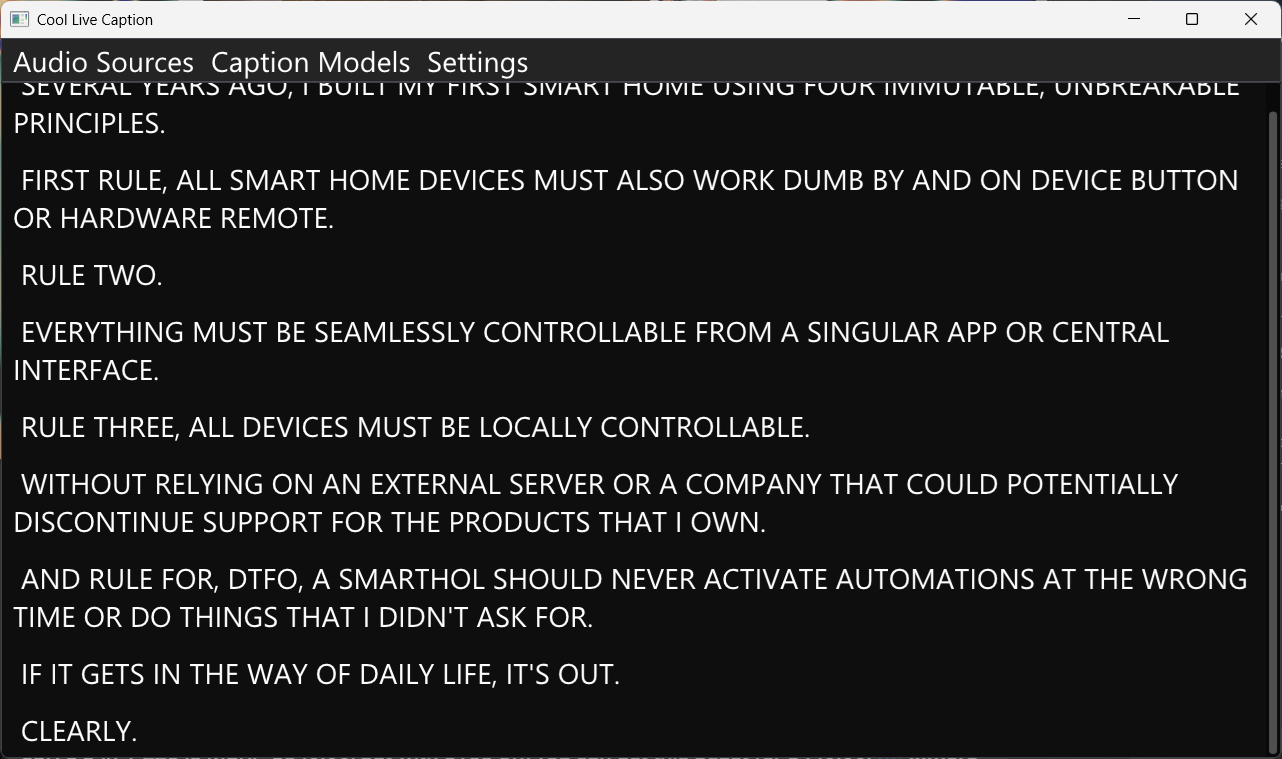
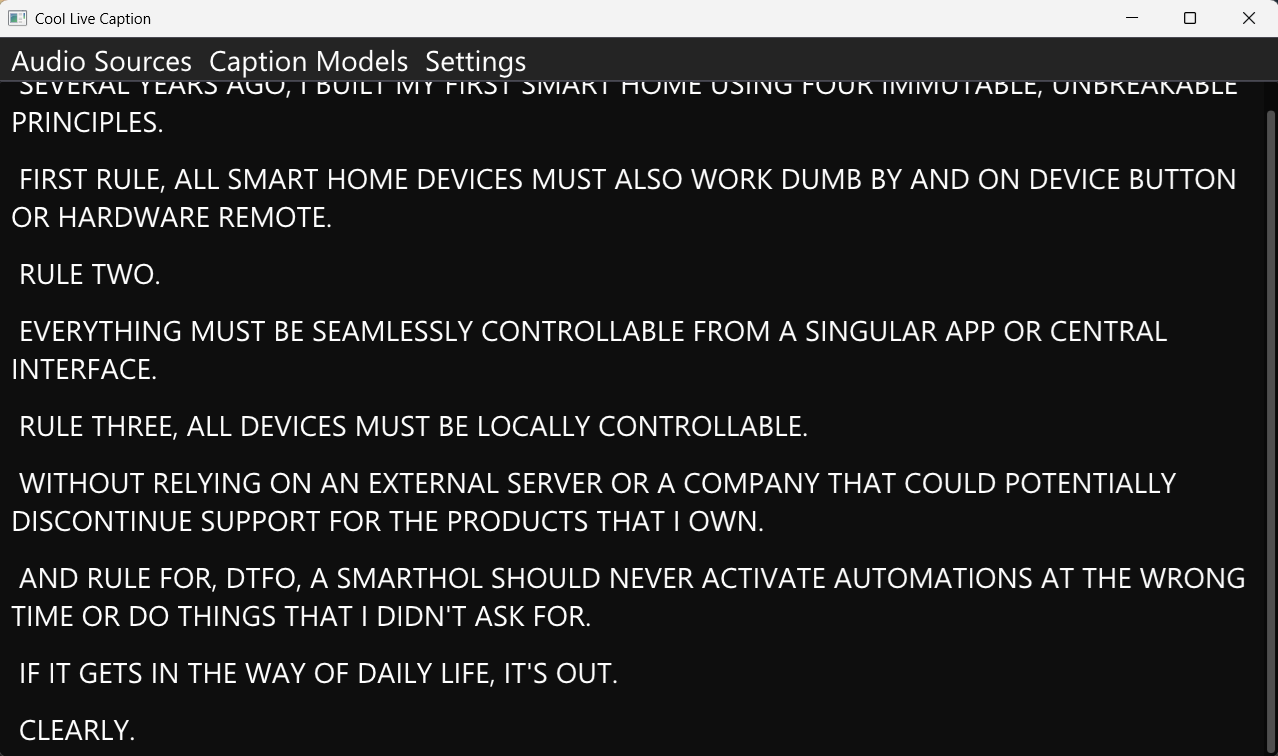
Update docs with new screenshot and experimental note

diff --git a/docs/index.md b/docs/index.md
@@ -5,6 +5,8 @@ title: Cool Live Caption
 
 # Cool Live Caption
 
+> Note: Cool Live Caption is experimental and captions may not be 100% accurate.
+
 A free and open source live caption desktop application that converts audio from your microphone or system audio to text in real-time. The speech recognition is powered by april-asr library with ONNX format. All processed on-device using your CPU.
 
 Windows and Linux are currently supported. macOS is coming soon.
@@ -23,7 +25,8 @@ Windows and Linux are currently supported. macOS is coming soon.
 
 ## Screenshot
 
-![Screenshot of Cool Live Caption on Windows](assets/screenshot01.png)
+| ![Screenshot of Cool Live Caption on Windows](assets/screenshot01.png) | ![Screenshot of Cool Live Caption on Linux GNOME](assets/screenshot02.png) |
+| --- | --- |
 
 ## Quick Start
 
@@ -36,6 +39,7 @@ Windows and Linux are currently supported. macOS is coming soon.
    - Linux: `~/.coollivecaption/models`
 
 ## Download
+
 Grab the latest build on the [Releases page](https://github.com/batterydie/cool-live-caption/releases).
 
 ## Acknowledgements
